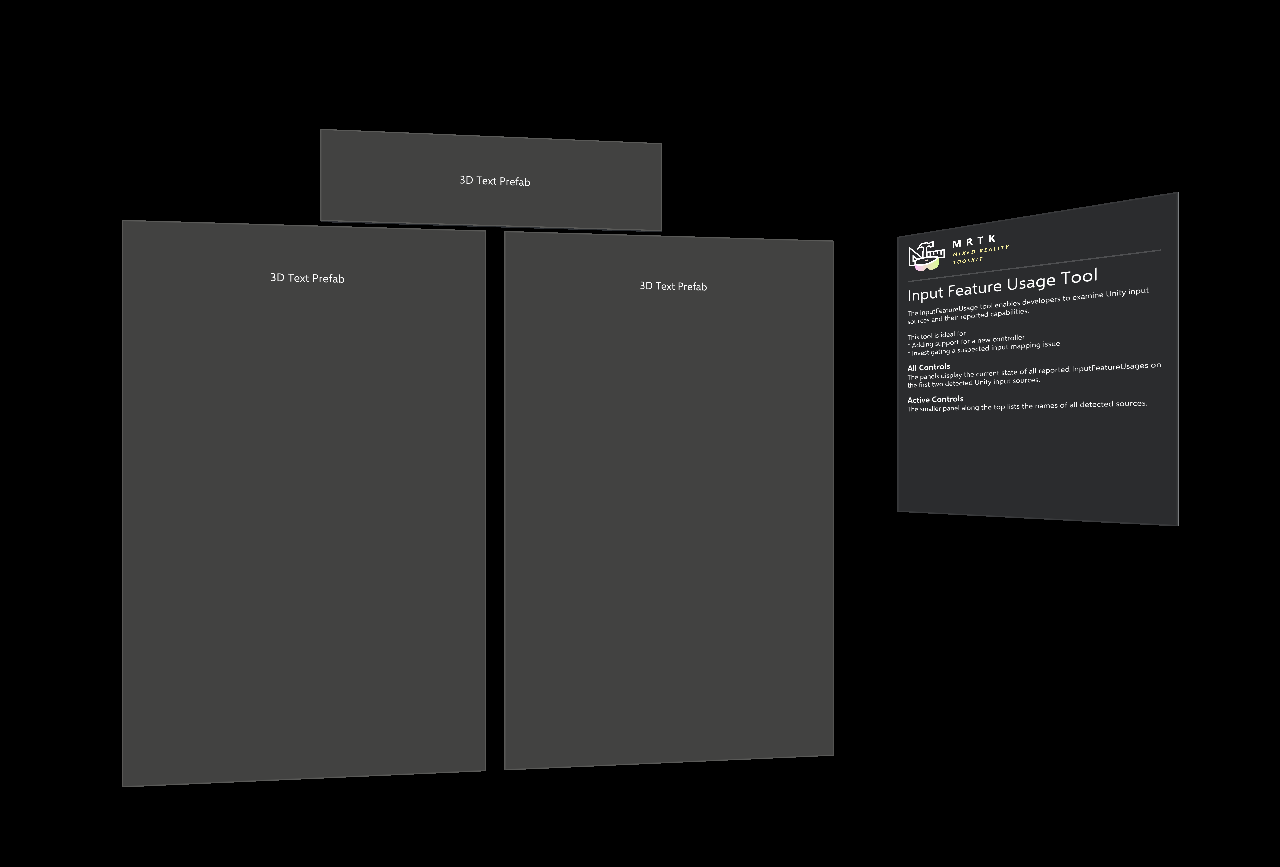
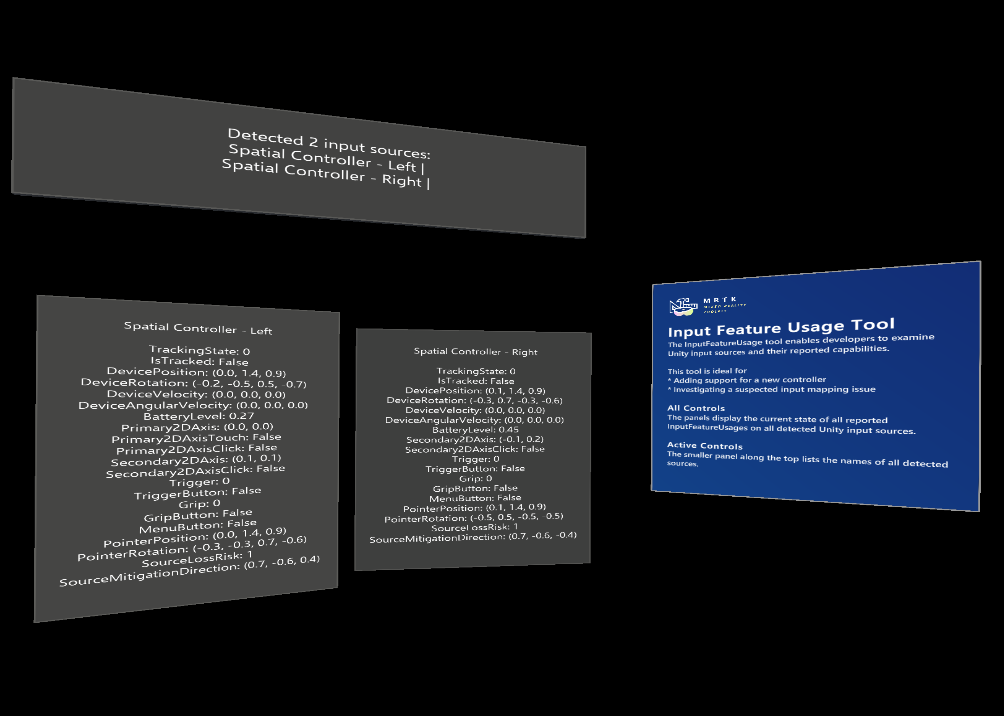
Update usage tool description and image

diff --git a/mrtk-unity/features/tools/input-feature-usage-tool.md b/mrtk-unity/features/tools/input-feature-usage-tool.md
@@ -34,7 +34,7 @@ To examine Unity's mappings for a controller:
 
 ### Panels
 
-The panels display the current state of all reported InputFeatureUsages on the first two detected Unity input sources.
+The panels display the current state of all reported InputFeatureUsages on all detected Unity input sources.
 
 The smaller panel along the top lists the names of all detected sources.
 
